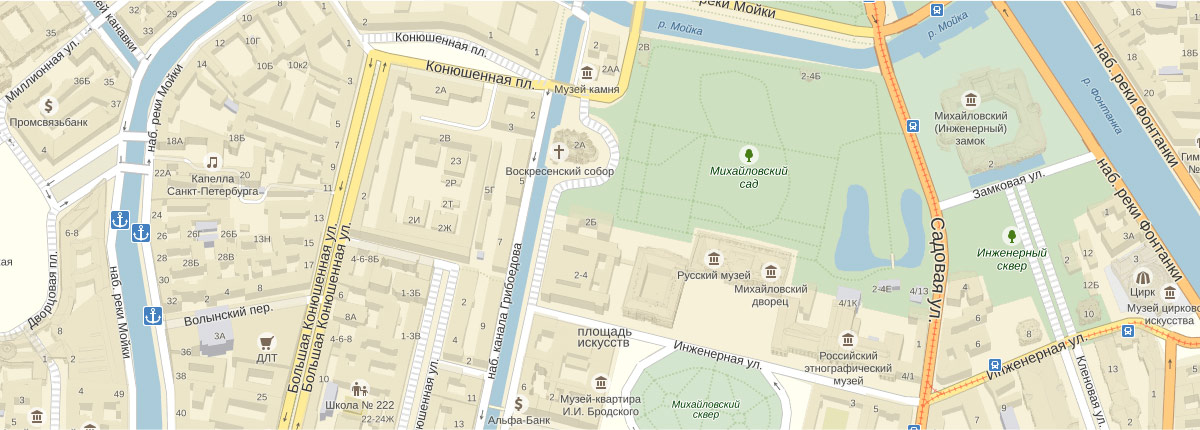
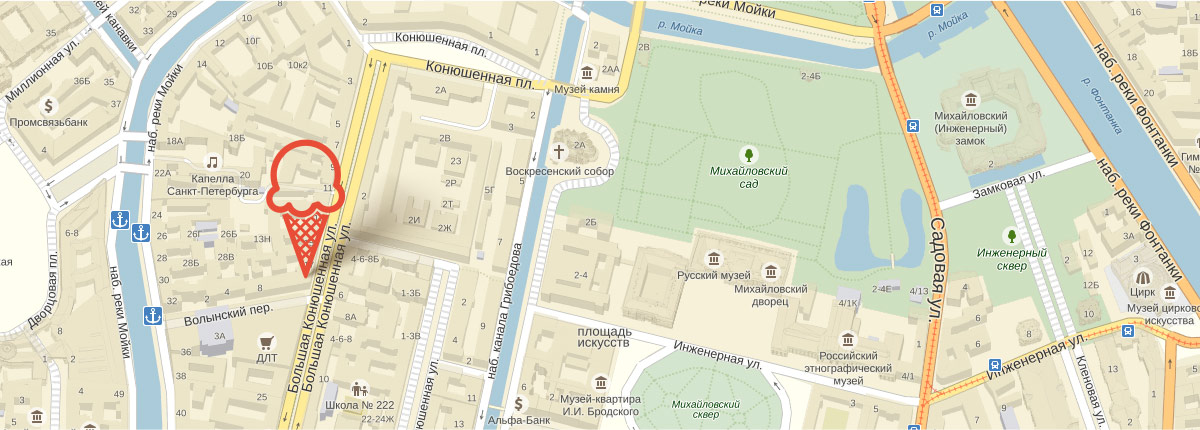
карта

Changed region(s): [[0.2158, 0.3023, 0.37, 0.6651]]

diff --git a/index.html b/index.html
@@ -184,19 +184,20 @@
             </div>
           </div>
         </div>
-        <section class="map-section" id="map">
-          <div class="map">
-            <div class="map-info">
-              <p>Адрес главного офиса и<br>
-              офлайн магазина:<br>
-              <b>ул. Большая Конюшенная<br>
-              19/8, Санкт-Петербург</b></p>
-              <p>Для заказов по телефону:
-              <a href="#" class="tel">8 812 450-25-25</a>
-              (с 10 до 20 ежедневно)</p>
-              <a href="#" class="btn">Форма обратной связи</a>
+        <section class="map" id="map">
+          <div class="container">
+            <div class="map-positioner">
+              <div class="map-info">
+                <p>Адрес главного офиса и<br>
+                офлайн магазина:<br>
+                <b>ул. Большая Конюшенная<br>
+                19/8, Санкт-Петербург</b></p>
+                <p>Для заказов по телефону:
+                <a href="#" class="tel">8 812 450-25-25</a>
+                (с 10 до 20 ежедневно)</p>
+                <a href="#" class="btn">Форма обратной связи</a>
+              </div>
             </div>
-          </div>
         </section>
       </main>
       <footer class="page-footer">

diff --git a/css/style.css b/css/style.css
@@ -1056,28 +1056,17 @@ img {
       margin-left: 7px;
       padding: 10px 18px;
     }
-#map {
+.map {
   width: 100%;
   height: 100%;
   padding: 0;
   margin: 0;
-}
-.map {
-  position: relative;
-  width: 1200px;
-  height: 430px;
-  margin: 0 auto 20px;
   background: #ece5c8 url('../img/map.jpg');
 }
-  .map::before {
-    content: " ";
-    display: block;
-    position: absolute;
-    top: 138px;
-    left: 265px;
-    width: 218px;
-    height: 142px;
-    background: url('../img/pin.png') no-repeat;
+  .map-positioner {
+    position: relative;
+    padding: 0;
+    margin: 0;
   }
   .map-info {
     position: absolute;

diff --git a/js/scripts.js b/js/scripts.js
@@ -94,7 +94,7 @@ ymaps.ready(function () {
             // Необходимо указать данный тип макета.
             iconLayout: 'default#image',
             // Своё изображение иконки метки.
-            iconImageHref: '../img/map.jpg',
+            iconImageHref: '../img/pin.png',
             // Размеры метки.
             iconImageSize: [218, 142],
             // Смещение левого верхнего угла иконки относительно
